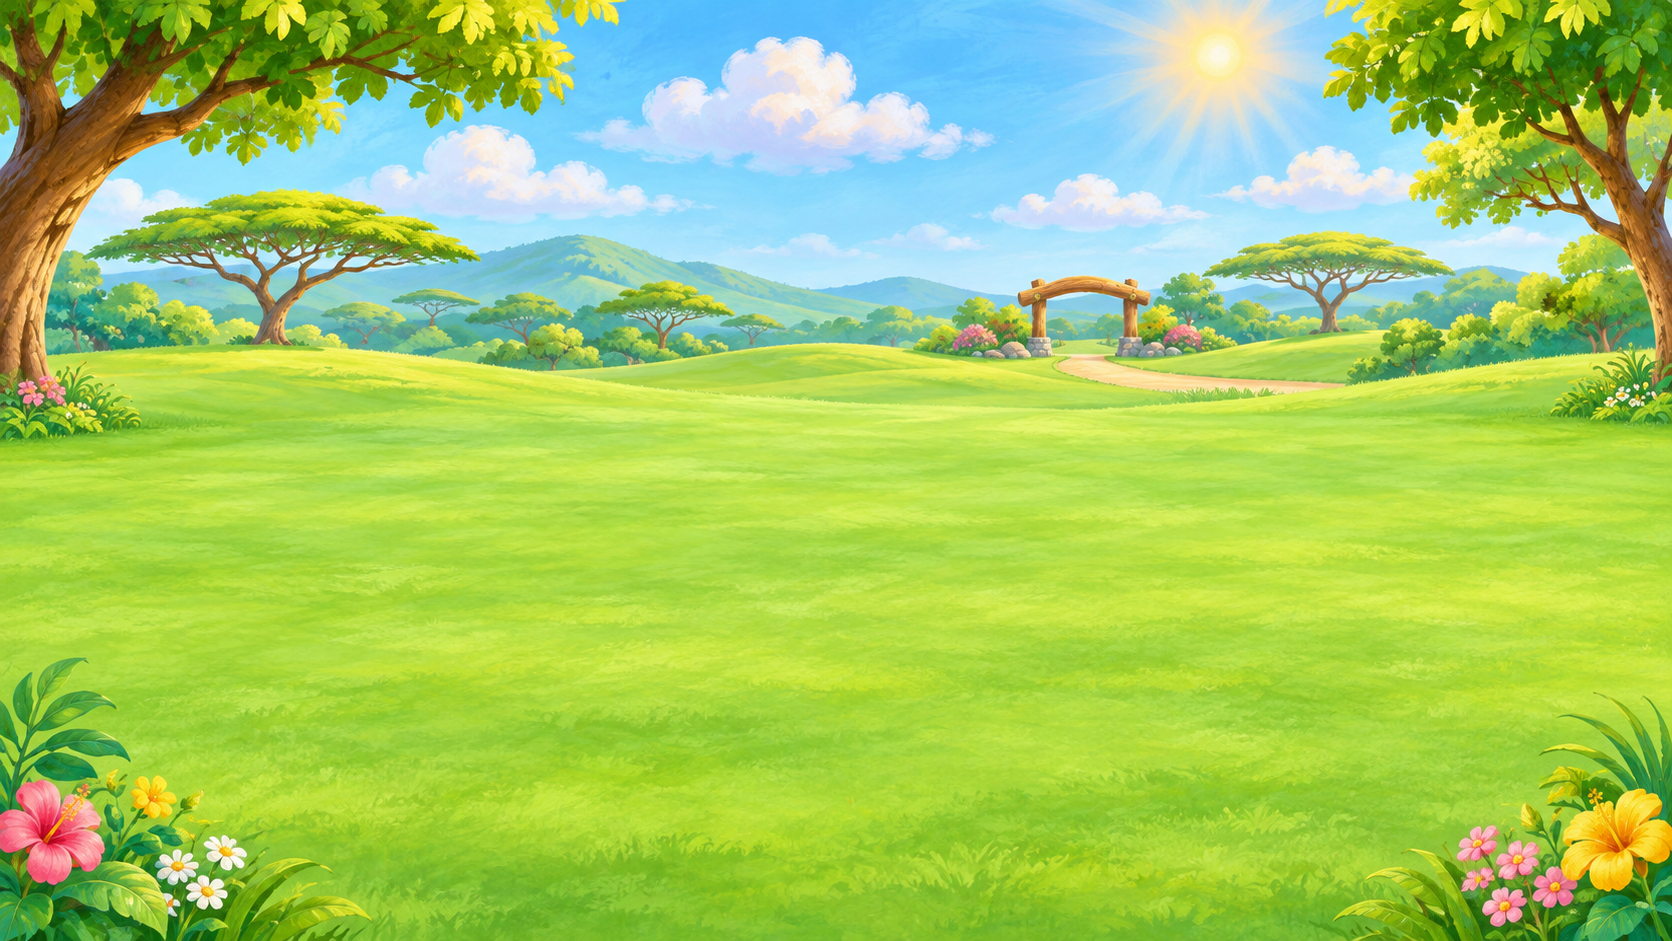
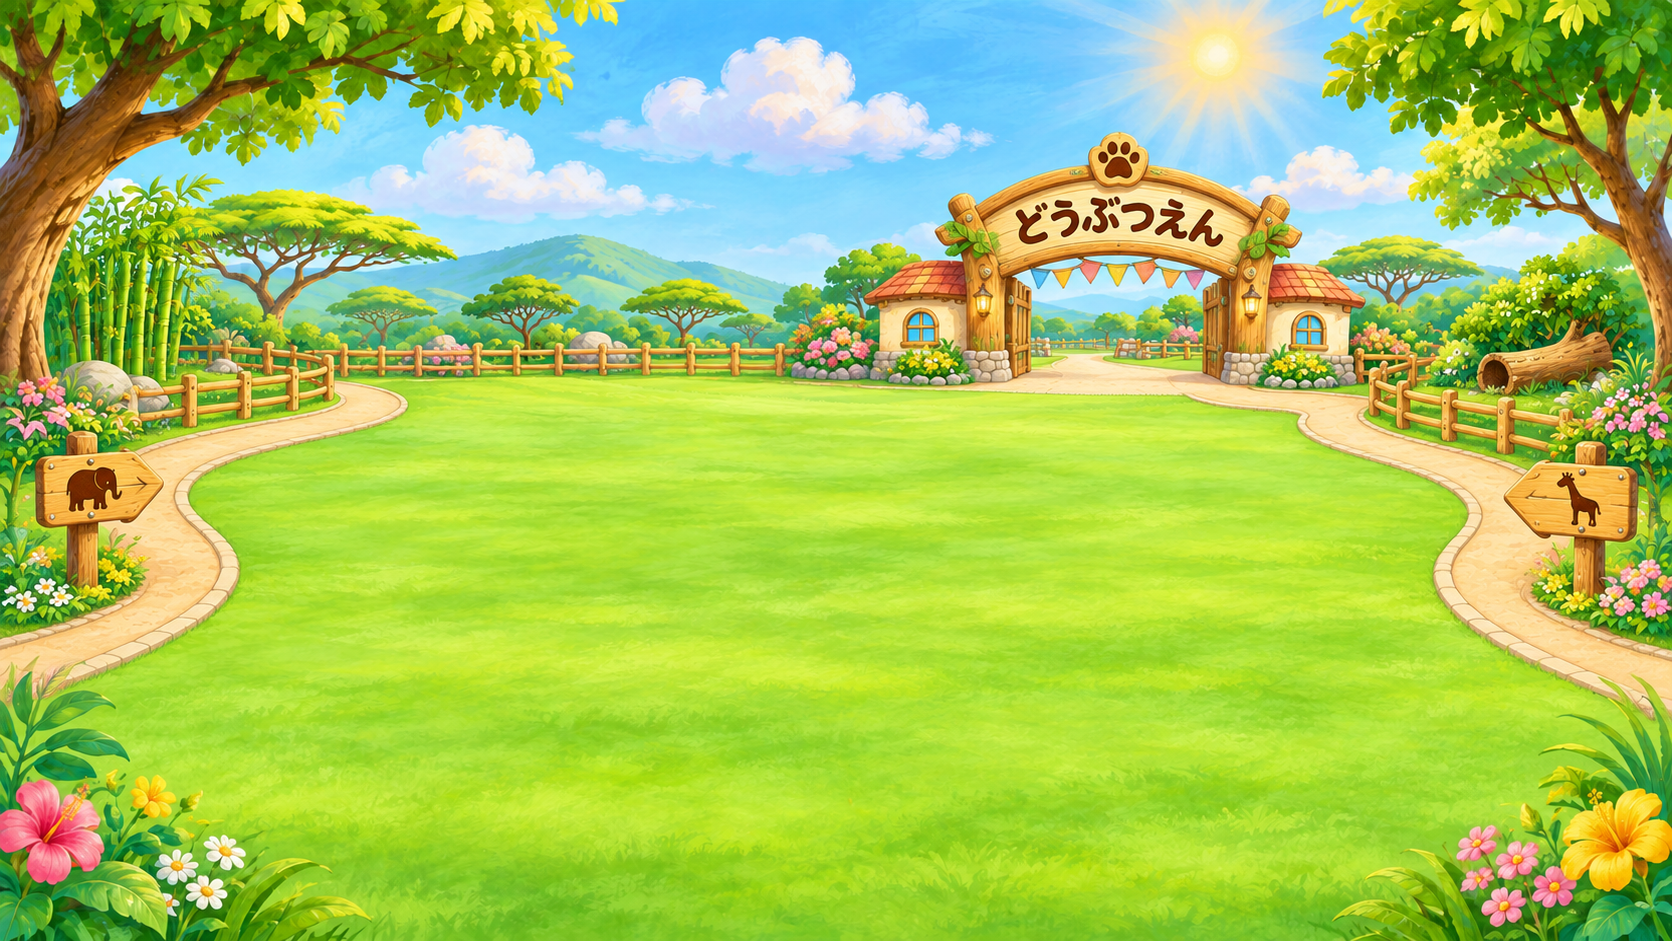
feat: add zoo entrance, fences and paths to background

diff --git a/docs/開発規則.md b/docs/開発規則.md
@@ -2084,6 +2084,7 @@
 
 | MM-DD | 事象 | 原因 | 対処/規則ID |
 |---|---|---|---|
+| 11-09 | 草原背景をもっと動物園らしくしたい | 入口ゲート、柵、園内の小道、案内板を画像へ追加。中央は広く空け、実際の6種の表示で確認する | F-530 |
 | 11-08 | 動物園6種を追加。テストで旧テーマ検査と地面位置の検査が各1件失敗 | 旧検査が「非ハロウィン全種」を水族館・恐竜と仮定し、新規テストは列内のgroundOffsetを忘れていた。旧検査は明記された2テーマに限定し、地面位置は個体の実際の接地点で確認。種類分離や表示サイズの基準は緩めない | F-530 / R-079 |
 | 10-24 | フランケンの足を前のように少し歩いて見える動きへ戻したい | 脚の振りを抑えた0.09から0.12へ調整。以前の0.16より控えめにし、位相同期と胴の安定を維持 | F-524 / R-076 |
 | 10-24 | 同じフランケンの一部だけ極端に小さいと指摘された | 未判定経路が水族館のサイズへ戻っていた。展示テーマに応じた標準サイズへ修正。外周の色線が判定に影響した可能性はあるが、添付画像の判定再現は未実施 | R-079 / F-527 |

diff --git a/docs/機能要項.md b/docs/機能要項.md
@@ -3,7 +3,7 @@
 実装・追加した機能を継続的にまとめる台帳。
 **機能を追加・変更したら必ず本ファイルを更新すること。**
 
-- 最終更新: 2026-11-08
+- 最終更新: 2026-11-09
 - 関連: `docs/推奨スペック.md`（実測値）／`docs/会場PCの選び方.md`（買う機種の判断）
 
 凡例: ✅ 実装済 / 🟡 雛形（枠のみ） / ⬜ 未着手
@@ -1280,3 +1280,5 @@
 - 2026-10-24 F-524 調整: **フランケンの控えめな足踏みを戻す**。脚の振りを0.09から0.12へ調整。交互の振りと歩行位相の同期を維持し、以前の0.16より小さくする。
 
 - 2026-11-08 F-530: **お絵描き動物園を追加**。6種の台紙・A4横PDF・明るい草原背景・テーマ選択・種類照合・地面での歩行と足踏み。未判定にも標準サイズを適用。魚用回転を使わず、顔・鼻・首は固定する。
+
+- 2026-11-09 F-530: **動物園の入口・柵・小道・案内板がある背景へ更新**。中央は歩く絵のために空け、6種の台紙・判定・動きは維持。

diff --git a/docs/設計-動物園.md b/docs/設計-動物園.md
@@ -3,7 +3,7 @@
 2026-11-08。ぞう・ライオン・キリン・さる・パンダ・しまうまの6種類を追加する。
 
 - 運用は既存と同じ。設定で動物園を1回選び、指定フォルダへスキャンするだけ。毎回の追加操作は0回。
-- 明るい草原、木陰と遠景の丘を背景にする。絵が歩く場所を広く空け、6種とも地面の上を歩く。
+- 明るい草原、木陰と遠景の丘に「どうぶつえん」の入口ゲート、木の柵、左右の小道、動物アイコンの案内板を加える。絵が歩く場所を広く空け、6種とも地面の上を歩く。
 - 台紙は太い黒線と白だけの横向きの動物。左向き、全身、足を離し、子どもが塗りやすい形にする。
 - A4横の6ページPDF。左上に「お絵描き動物園」、絵は余白を残した70%の大きさ。
 - テーマ内で6種を照合し、実際の切り抜き後の形で相互の取り違えを測定する。未判定も動物園の標準サイズで歩かせる。

diff --git a/docs/要件定義.md b/docs/要件定義.md
@@ -159,3 +159,7 @@
 ### お絵描き動物園（2026-11-08）
 
 ぞう・ライオン・キリン・さる・パンダ・しまうまの6種類を追加する。明るい草原の地面を歩き、顔や首をしならせず、足元だけを交互に動かす。テーマの選択は会期前に1回、スキャンごとの追加操作は0回。台紙はA4横・6ページ、左上に「お絵描き動物園」、絵は利用可能な範囲の70%。未判定の自由画も動物園の基準サイズで地面を歩く。魚用の向き補正は動物園に適用せず、台紙との照合で向きを決める。今回作成する配布前の見本は独立したテスト用データで確認し、会場PCには未適用。
+
+### 動物園らしい背景（2026-11-09）
+
+本人の指定により、入口ゲート「どうぶつえん」、低い木の柵、左右の園内小道、動物アイコンの案内板を背景へ追加する。中央と手前の草地は広く空け、動物の歩行と視認性を保つ。

diff --git a/docs/動物園-使い方と確認結果.md b/docs/動物園-使い方と確認結果.md
@@ -27,3 +27,5 @@
 - A4台紙は種類判定に加え、タイトルが残らないよう保存画像の縦横比も元の動物と比較済み。
 - 色付き見本は検証用の合成データ。会場の実スキャンとWindows実機は未確認。
 - 新テーマは会場への反映前の見本。
+
+2026-11-09: 動物園の入口ゲート「どうぶつえん」、木の柵、園内の小道、動物アイコンの案内板を加えた背景へ更新。typecheck/build成功。独立したアプリで6種の表示と設定の開閉を確認し、見本動画を撮り直した。
